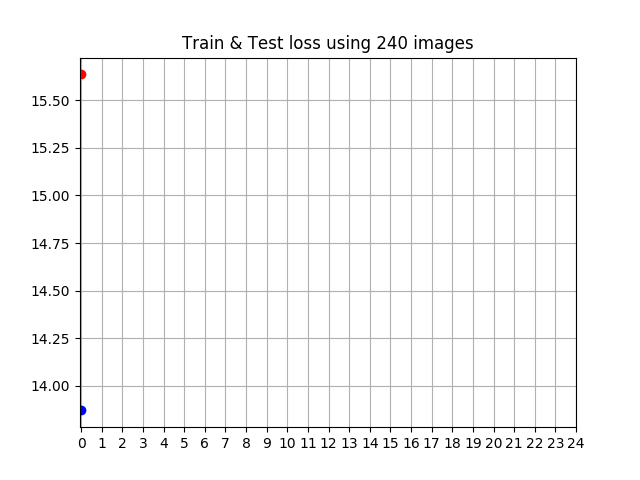
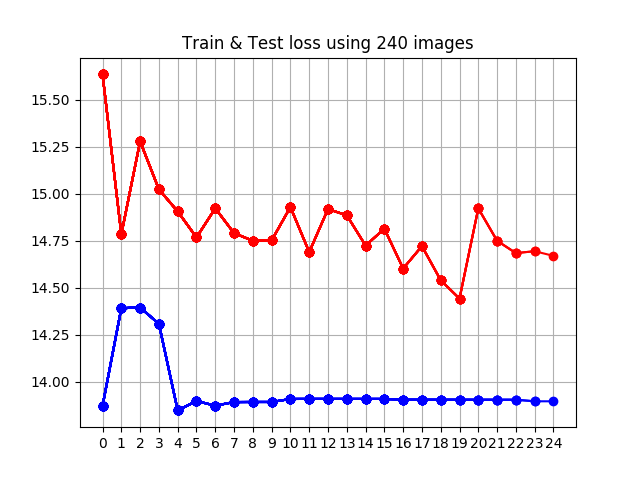
Staging for changes to loss function

Changed region(s): [[0.0312, 0.125, 0.9062, 0.9375], [0.8438, 0.375, 0.875, 0.4375], [0.0625, 0.1875, 0.125, 0.2188]]

diff --git a/loss.py b/loss.py
@@ -1,10 +1,34 @@
 from utilities import convert_YOLO_to_center_coords, iou, im2PIL, draw_detections, build_class_names
 import torch
+import torch.nn as nn
+import torch.nn.functional as F 
+
+
+def box(output, target):
+    """
+    Receives an output prediction of size S*S*(B*5+C) 
+    and `target` ground truth of size S*S*5 and returns the bounding box to use
+    for each grid cell.
+
+    - return bbox:  Tensor of size SxSx(5+C) where each bounding box is in 
+                    the format <x> <y> <w> <h> <confidence>
+    """
+    #TODO: Continue here `similar to predict_one_box`
+    pass
 
 """
 - Does not support batching, it operates on a single target-output pair
 """
 def criterion(output, target, stride):
+    """
+    Computes the loss (YOLO) between the output and the target tensor
+    - It assumes the both the output and target are encoded in the YOLO format
+        where <x> and <y> are normalised to the grid cell
+        and <w> and <h> is the square root of the width of the object / width of image
+    - The output is of size NxSxSx(Bx5+C) where B is the no. of bounding boxes
+    - The target is of size NxSxSx5 in format <x> <y> <w> <h> <class>
+    #TODO: Finish refactoring loss function
+    """
     total_loss = 0.0
     num_grids = output.size()
     #TODO: Reduce this to a single for-loop using np.meshgrid
@@ -25,12 +49,14 @@ def criterion(output, target, stride):
             if truth_bbox.sum() > 0: #there is an object in this class
                 max_bbox, min_bbox = (bbox_1, bbox_2) if iou(_bbox_1,_truth_bbox) > iou(_bbox_2, _truth_bbox) else (bbox_2, bbox_1)
                 confidence = max(iou(_bbox_1, _truth_bbox),iou(_bbox_2, _truth_bbox))
-                truth_bbox[0] = confidence #the ground truth data uses confidence 
+                truth_bbox[0] = confidence #the ground truth data uses confidence
                 Q = torch.eye(5) * 5
                 Q[0,0] = 1
                 z = max_bbox - truth_bbox[0:5]
                 #loss is weighted bounding box regression + weighted no object + class probabilities                
-                loss_gx_gy = (z.t().matmul(Q).matmul(z)) + (0.5 * min_bbox[0]) + (truth_probs - class_probs).t().matmul(truth_probs - class_probs)                            
+                loss_gx_gy = (z.t().matmul(Q).matmul(z)) \
+                                + (0.5 * min_bbox[0]) \
+                                + (truth_probs - class_probs).t().matmul(truth_probs - class_probs)                
             else:
                 #0.5 is the weight when there is no object
                 #0.5 is multiplied by the class confidences for each bounding box in the current grid
@@ -40,13 +66,67 @@ def criterion(output, target, stride):
     return total_loss
 
 
+class TestNet(nn.Module):
+    def __init__(self):
+        super(TestNet,self).__init__()
+
+        self.conv = nn.Sequential(
+            nn.Conv2d(3, 64, 3, 1, 0),
+            nn.ReLU(inplace=True),
+            nn.Conv2d(64, 128, 3, 1, 0),
+            nn.ReLU(inplace=True),
+            nn.Conv2d(128, 256, 3, 1, 0),
+            nn.ReLU(inplace=True),
+            nn.Conv2d(256, 512, 5, 1, 0 ),
+            nn.ReLU(inplace=True),
+            nn.AdaptiveAvgPool2d((1,1))
+        )
+
+        self.linear = nn.Sequential(
+            nn.Linear(512, 1024, True),
+            nn.ReLU(inplace=True),
+            nn.Linear(1024, 1470),
+            nn.Sigmoid()
+        )
+
+    def forward(self, x):
+        x = self.conv(x)
+        x = x.view(x.size()[0], -1)
+        x = self.linear(x)
+        x = x.view(-1, 7, 7, 30)        
+        return x
+
 if __name__ == "__main__":
     # Test the loss function
-    class_names = build_class_names("./voc.names")
-    images = torch.randn(1, 3, 448, 448)
-    detections = torch.rand(1, 1, 5)
-    detections[:,:,0] *= 20
+    # class_names = build_class_names("./voc.names")
+    # images = torch.randn(1, 3, 448, 448)
+    # detections = torch.rand(1, 1, 5)
+    # detections[:,:,0] *= 20
     
-    x = im2PIL(images[0])            
-    x = draw_detections(x, detections[0], class_names)
-    x.show()
+    # x = im2PIL(images[0])            
+    # x = draw_detections(x, detections[0], class_names)
+    # x.show()
+    """
+    This test assumes that I can build a simple model that can overfit to 
+    a random batch of images over at least 20 epochs
+    """
+    net = TestNet()
+    optimiser = torch.optim.Adam(net.parameters(), lr=0.001)
+
+    X = torch.randn(2, 3, 448, 448)    
+    Y = torch.rand(2,7,7,5)
+    Y[:,:,:,:4] = torch.clamp(Y[:,:,:,:4], 0,1)
+    Y[:,:,:,4] = (Y[:,:,:,4] * 20).floor()
+    
+
+    for i in range(25):
+        optimiser.zero_grad()
+
+        Y_ = net(X)        
+        loss = criterion(Y_, Y)
+        print(f"Test Epoch {i}: Loss = {loss.item()}")
+
+        loss.backward()
+        optimiser.step()
+
+    print(f"Finished testing model and Loss function")

diff --git a/training.py b/training.py
@@ -15,7 +15,7 @@ from PIL import Image
 from pprint import pprint
 from collections import OrderedDict
 from data.voc_dataset import VOCDataset
-from utilities import draw_detection, parse_config, build_class_names, iou, convert_YOLO_to_center_coords, convert_center_coords_to_YOLO, gnd_truth_tensor, imshow, im2PIL, draw_detections
+from utilities import draw_detection, parse_config, build_class_names, iou, convert_center_coords_to_YOLO, gnd_truth_tensor, imshow, im2PIL, draw_detections
 from yolo_v1 import Yolo_V1
 from torchviz import make_dot
 from graphviz import Source
@@ -136,7 +136,7 @@ if __name__ == "__main__":
             with torch.set_grad_enabled(True):
                 # Having 3 foor-loops might be slow, this could be improved later as premature optimisation is the root of all evils
                 for batch_idx in range(num_batch):
-                    pred_detections = predictions[batch_idx].transpose(0,2) #convert the dimension from 30x7x7 to 7x7x30                
+                    pred_detections = predictions[batch_idx]#.transpose(0,2) #convert the dimension from 30x7x7 to 7x7x30                
                     target_detections = convert_center_coords_to_YOLO(detections[batch_idx], _GRID_SIZE_)
                     target_tensor = gnd_truth_tensor(target_detections)                
 

diff --git a/utilities.py b/utilities.py
@@ -81,7 +81,7 @@ There are two methods of approaching it
     encode the normalised center x in terms of the grid cells by using floor(7 * center_x) => g_x
     the offset from the grid cell is then given by (7 * center_x) - g_x
 """
-def convert_center_coords_to_YOLO(detections, grid_size=7):
+def convert_center_coords_to_YOLO(detections, grid_size=7):    
     res = []    
     for idx, detection in enumerate(detections):        
         bbox = detection[1:]
@@ -93,11 +93,12 @@ def convert_center_coords_to_YOLO(detections, grid_size=7):
         bbox[2] = math.sqrt(bbox[2])
         bbox[3] = math.sqrt(bbox[3])
         
-        # Adding the grid cell locations gx, gy to the detection to make loss calculations easier
+        # Adding the grid cell locations gx, gy to the detection for use in `gnd_truth_tensor` function
         grid_cells = torch.Tensor([gx,gy])
         detection[1:] = bbox
-        res.append(torch.cat([detection, grid_cells]).unsqueeze(0))    
-    return torch.cat(res, dim=0) #detections
+        res.append(torch.cat([detection, grid_cells]).unsqueeze(0))
+    res = torch.cat(res, dim=0)
+    return res #detections
 
 
 """

diff --git a/yolo_v1.py b/yolo_v1.py
@@ -76,7 +76,7 @@ class Yolo_V1(nn.Module):
         lin_inp = lin_inp.view(x.size()[0],-1) #resize it so that it is flattened by batch        
         lin_out = self.linear_layers(lin_inp)
         # lin_out = torch.sigmoid(lin_out) #TODO: Move this to where the layers are constructed         
-        det_tensor = lin_out.view(-1,((self.num_bbox * 5) + self.num_classes),self.grid,self.grid)
+        det_tensor = lin_out.view(-1,self.grid,self.grid,((self.num_bbox * 5) + self.num_classes))
         return det_tensor
 
     """

diff --git a/inference.py b/inference.py
@@ -55,6 +55,7 @@ if __name__ == "__main__":
         X_ = transform(X).unsqueeze(0)
         predictions = model(X_)
         sz = predictions.size()    
+        #TODO - [ ]: The model definition has changed, ensure this is correct
         predictions = predictions.view(sz[0], sz[1], -1) # change from 1x30x7x7 to 1x30x49
         predictions = predictions.transpose(1,2).contiguous() #change from 1x30x49 to 1x49x30
         
